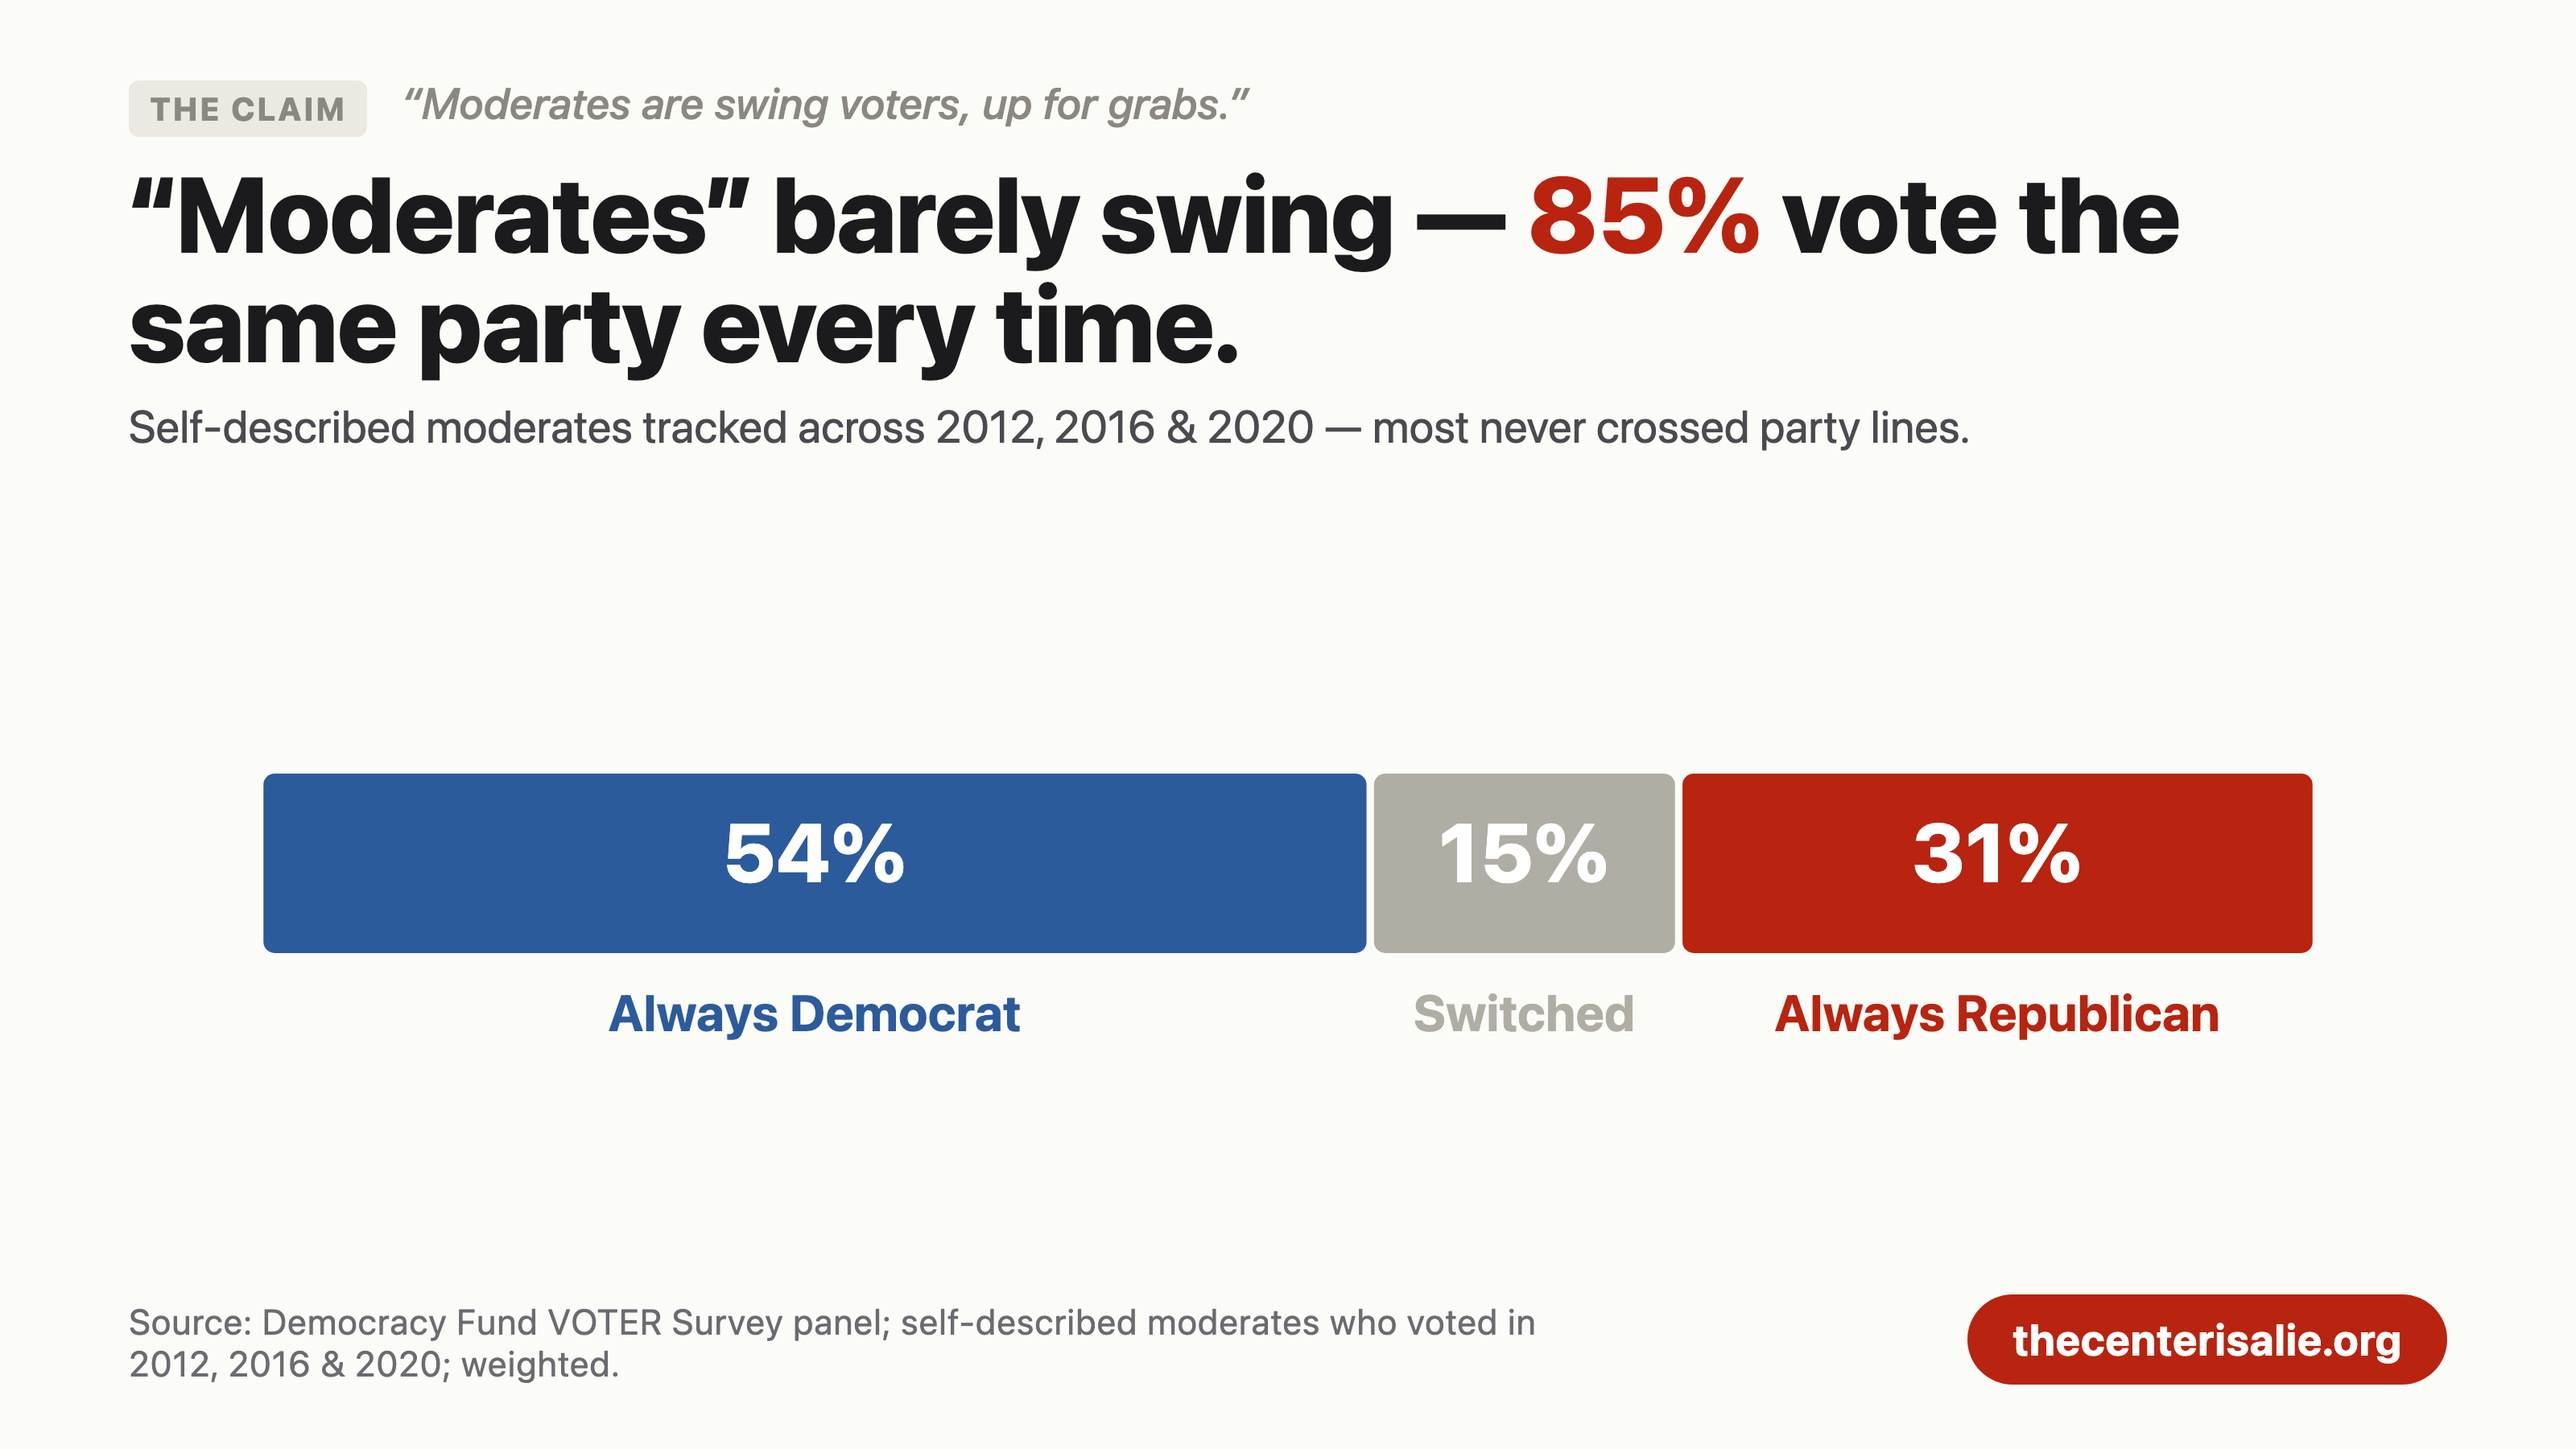
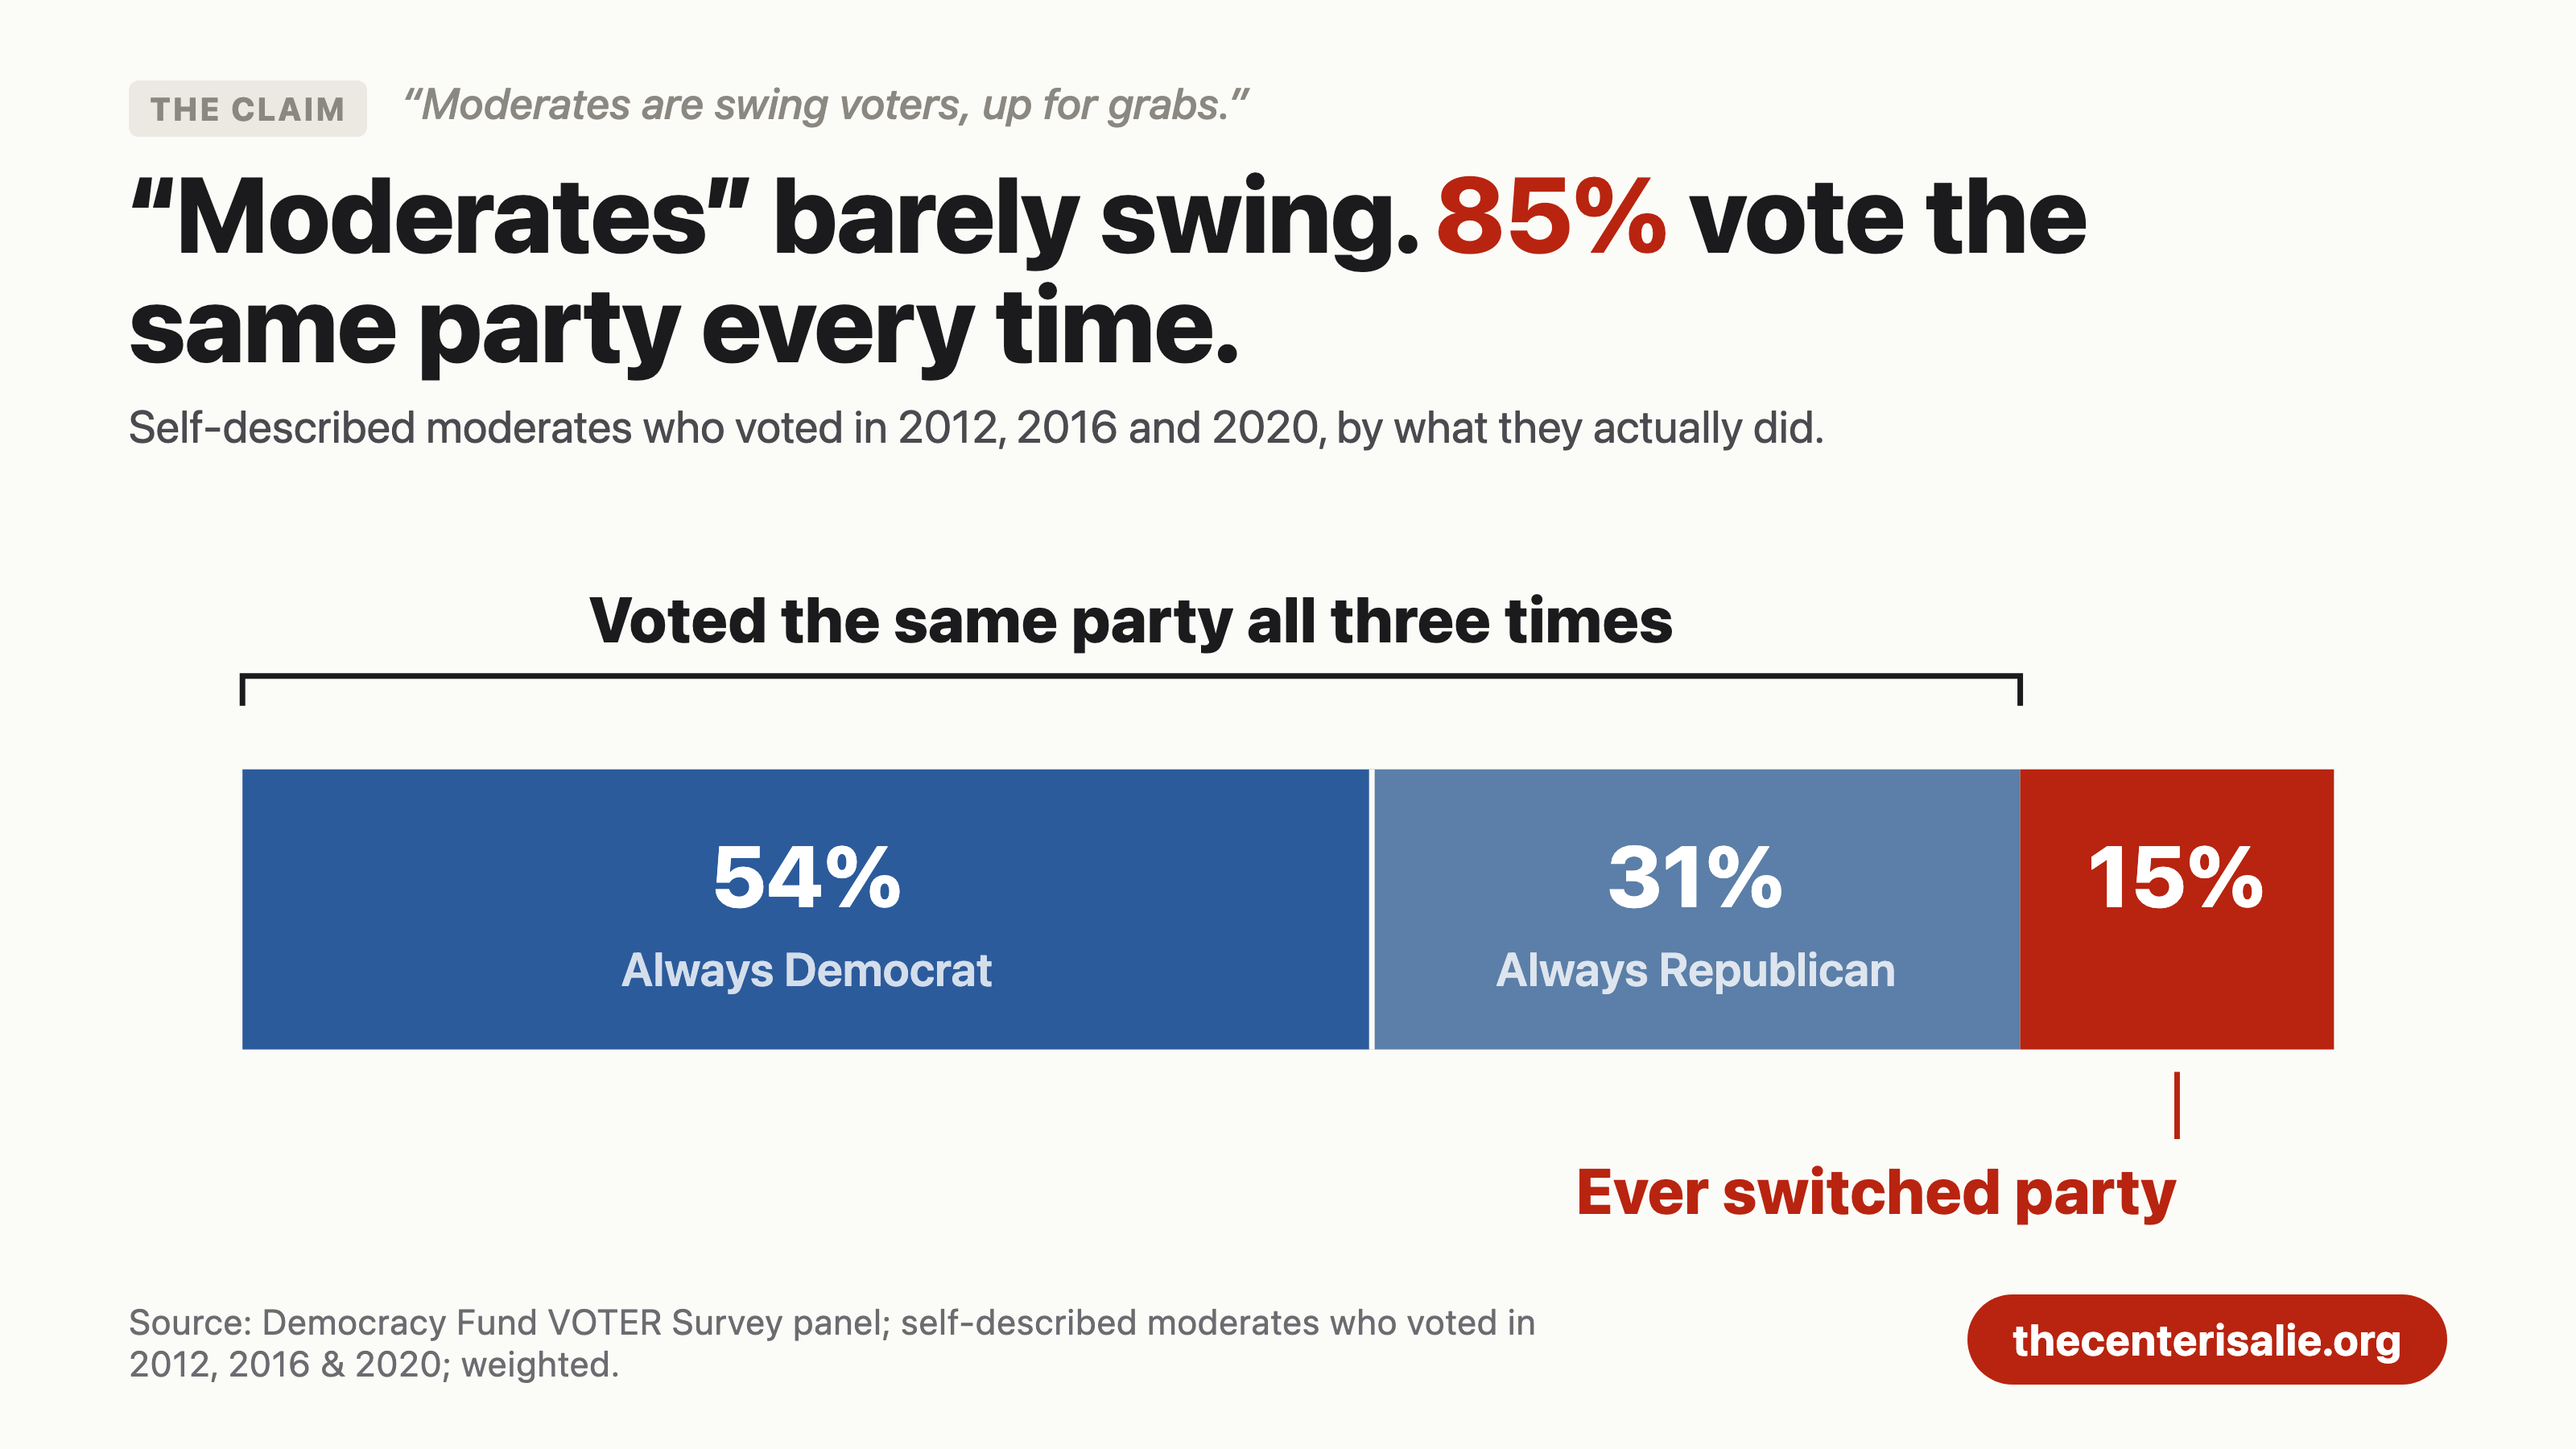
fix(og): rebuild superdelegates + consistency to fill the frame
- superdelegates: drop redundant legend and the hedged 'approx 45', label
  groups inline, enlarge dots, reclaim ~245px of dead space.
- consistency: recolor by behavior instead of party so the chart's red
  matches the headline's claim; 85% loyal block bracketed, 15% switchers
  in red; reclaim ~245px.

diff --git a/web/og-cards/chart-consistency.html b/web/og-cards/chart-consistency.html
@@ -3,11 +3,11 @@
 <body>
   <div class="chartcard">
     <div class="cc-claim"><span class="tag">The claim</span> &ldquo;Moderates are swing voters, up for grabs.&rdquo;</div>
-    <div class="cc-title">&ldquo;Moderates&rdquo; barely swing &mdash; <span class="hl">85%</span> vote the same party every time.</div>
-    <div class="cc-sub">Self-described moderates tracked across 2012, 2016 &amp; 2020 &mdash; most never crossed party lines.</div>
+    <div class="cc-title">&ldquo;Moderates&rdquo; barely swing. <span class="hl">85%</span> vote the same party every time.</div>
+    <div class="cc-sub">Self-described moderates who voted in 2012, 2016 and 2020, by what they actually did.</div>
 
-    <div class="cc-chart"><svg id="con" viewBox="0 0 1240 300" role="img"
-      aria-label="Of moderates who voted all three cycles: 54% always Democrat, 15% switched, 31% always Republican"></svg></div>
+    <div class="cc-chart"><svg id="con" viewBox="0 0 1240 449" role="img"
+      aria-label="Of moderates who voted all three cycles, 85% voted the same party every time and only 15% ever switched"></svg></div>
 
     <div class="cc-foot">
       <div class="cc-source">Source: Democracy Fund VOTER Survey panel; self-described moderates who voted in 2012, 2016 &amp; 2020; weighted.</div>
@@ -19,19 +19,39 @@
     const NS = 'http://www.w3.org/2000/svg';
     const svg = document.getElementById('con');
     const el = (t, a) => { const n = document.createElementNS(NS, t); for (const k in a) n.setAttribute(k, a[k]); return n; };
-    const segs = [
-      { v: 54, c: '#2c5b9c', label: 'Always Democrat', sub: '54%' },
-      { v: 15, c: '#b0ada4', label: 'Switched', sub: '15%' },
-      { v: 31, c: '#b8240f', label: 'Always Republican', sub: '31%' },
+    const txt = (a, s) => { const t = el('text', a); t.textContent = s; svg.appendChild(t); return t; };
+
+    const X0 = 60, X1 = 1180, W = X1 - X0, barY = 168, barH = 150;
+    const pct = (v) => v / 100 * W;
+
+    // 85% loyal block, split internally by party
+    const loyal = [
+      { v: 54, c: '#2c5b9c', label: 'Always Democrat' },
+      { v: 31, c: '#5b7fa8', label: 'Always Republican' },
     ];
-    const X0 = 70, X1 = 1170, W = X1 - X0, barY = 96, barH = 96;
     let cx = X0;
-    segs.forEach((s) => {
-      const w = s.v / 100 * W;
-      svg.appendChild(el('rect', { x: cx + 2, y: barY, width: w - 4, height: barH, rx: 6, fill: s.c }));
-      const pv = el('text', { x: cx + w / 2, y: barY + 58, 'text-anchor': 'middle', fill: '#fff', 'font-size': 44, 'font-weight': 800 }); pv.textContent = s.sub; svg.appendChild(pv);
-      const nm = el('text', { x: cx + w / 2, y: barY + barH + 42, 'text-anchor': 'middle', fill: s.c, 'font-size': 27, 'font-weight': 700 }); nm.textContent = s.label; svg.appendChild(nm);
+    loyal.forEach((s) => {
+      const w = pct(s.v);
+      svg.appendChild(el('rect', { x: cx, y: barY, width: w, height: barH, fill: s.c }));
+      txt({ x: cx + w / 2, y: barY + 74, 'text-anchor': 'middle', fill: '#fff', 'font-size': 46, 'font-weight': 800 }, s.v + '%');
+      txt({ x: cx + w / 2, y: barY + 116, 'text-anchor': 'middle', fill: '#ffffffcc', 'font-size': 25, 'font-weight': 600 }, s.label);
       cx += w;
     });
+    // hairline between the two party sub-blocks
+    svg.appendChild(el('line', { x1: X0 + pct(54), y1: barY, x2: X0 + pct(54), y2: barY + barH, stroke: '#fbfbf8', 'stroke-width': 3 }));
+
+    // 15% switchers
+    const sw = pct(15);
+    svg.appendChild(el('rect', { x: cx, y: barY, width: sw, height: barH, fill: '#b8240f' }));
+    txt({ x: cx + sw / 2, y: barY + 74, 'text-anchor': 'middle', fill: '#fff', 'font-size': 46, 'font-weight': 800 }, '15%');
+
+    // bracket over the loyal block
+    const bx1 = X0, bx2 = X0 + pct(85), by = barY - 34;
+    svg.appendChild(el('path', { d: `M ${bx1} ${by} L ${bx1} ${by - 16} L ${bx2} ${by - 16} L ${bx2} ${by}`, fill: 'none', stroke: '#1b1b1d', 'stroke-width': 3 }));
+    txt({ x: (bx1 + bx2) / 2, y: by - 34, 'text-anchor': 'middle', fill: '#1b1b1d', 'font-size': 34, 'font-weight': 800 }, 'Voted the same party all three times');
+
+    // callout under the switchers
+    svg.appendChild(el('line', { x1: cx + sw / 2, y1: barY + barH + 12, x2: cx + sw / 2, y2: barY + barH + 48, stroke: '#b8240f', 'stroke-width': 3 }));
+    txt({ x: cx + sw / 2, y: barY + barH + 88, 'text-anchor': 'end', fill: '#b8240f', 'font-size': 34, 'font-weight': 800 }, 'Ever switched party');
   </script>
 </body></html>

diff --git a/web/og-cards/chart-superdelegates.html b/web/og-cards/chart-superdelegates.html
@@ -3,16 +3,11 @@
 <body>
   <div class="chartcard">
     <div class="cc-claim"><span class="tag">The claim</span> &ldquo;The primary is a fair, open contest.&rdquo;</div>
-    <div class="cc-title">Before a single vote, party insiders backed Clinton <span class="hl">45 to 1</span>.</div>
-    <div class="cc-sub">Superdelegate endorsements, Clinton vs. Sanders, November 2015 &mdash; months before the first primary.</div>
+    <div class="cc-title">Before a single vote was cast, party insiders had picked <span class="hl">45 to 1</span>.</div>
+    <div class="cc-sub">Superdelegate endorsements in November 2015 &mdash; three months before Iowa.</div>
 
-    <div class="cc-chart"><svg id="sd" viewBox="0 0 1240 360" role="img"
-      aria-label="Superdelegate endorsements: 45 for Clinton, 1 for Sanders"></svg></div>
-
-    <div class="cc-legend">
-      <div class="item"><span class="dot" style="background:#2c5b9c"></span>Backed Clinton (≈45)</div>
-      <div class="item"><span class="dot dot--ring" style="background:#b8240f"></span>Backed Sanders (1)</div>
-    </div>
+    <div class="cc-chart"><svg id="sd" viewBox="0 0 1240 449" role="img"
+      aria-label="Superdelegate endorsements as of November 2015: 45 for Clinton, 1 for Sanders"></svg></div>
 
     <div class="cc-foot">
       <div class="cc-source">Source: NPR, &ldquo;Clinton Has 45-To-1 &lsquo;Superdelegate&rsquo; Advantage Over Sanders&rdquo; (Nov 13, 2015).</div>
@@ -24,13 +19,23 @@
     const NS = 'http://www.w3.org/2000/svg';
     const svg = document.getElementById('sd');
     const el = (t, a) => { const n = document.createElementNS(NS, t); for (const k in a) n.setAttribute(k, a[k]); return n; };
-    const COLS = 23, ROWS = 2, r = 22, sx = 50, sy = 74;
-    const x0 = (1240 - (COLS - 1) * sx) / 2, y0 = 90;
+    const txt = (a, s) => { const t = el('text', a); t.textContent = s; svg.appendChild(t); return t; };
+
+    const COLS = 23, r = 27, sx = 52, sy = 114;
+    const x0 = (1240 - (COLS - 1) * sx) / 2, y0 = 152;
+
+    txt({ x: x0 - 27, y: y0 - 62, 'text-anchor': 'start', fill: '#2c5b9c', 'font-size': 36, 'font-weight': 800 }, 'Endorsed Clinton: 45');
+
     for (let i = 0; i < 46; i++) {
       const cx = x0 + (i % COLS) * sx, cy = y0 + ((i / COLS) | 0) * sy;
       const sanders = i === 45;
       svg.appendChild(el('circle', { cx, cy, r, fill: sanders ? '#b8240f' : '#2c5b9c' }));
-      if (sanders) svg.appendChild(el('circle', { cx, cy, r: r + 9, fill: 'none', stroke: '#b8240f', 'stroke-width': 3 }));
+      if (sanders) {
+        svg.appendChild(el('circle', { cx, cy, r: r + 11, fill: 'none', stroke: '#b8240f', 'stroke-width': 4 }));
+        // callout down to the label
+        svg.appendChild(el('line', { x1: cx, y1: cy + r + 20, x2: cx, y2: cy + r + 58, stroke: '#b8240f', 'stroke-width': 3 }));
+        txt({ x: cx, y: cy + r + 96, 'text-anchor': 'end', fill: '#b8240f', 'font-size': 34, 'font-weight': 800 }, 'Endorsed Sanders: 1');
+      }
     }
   </script>
 </body></html>
